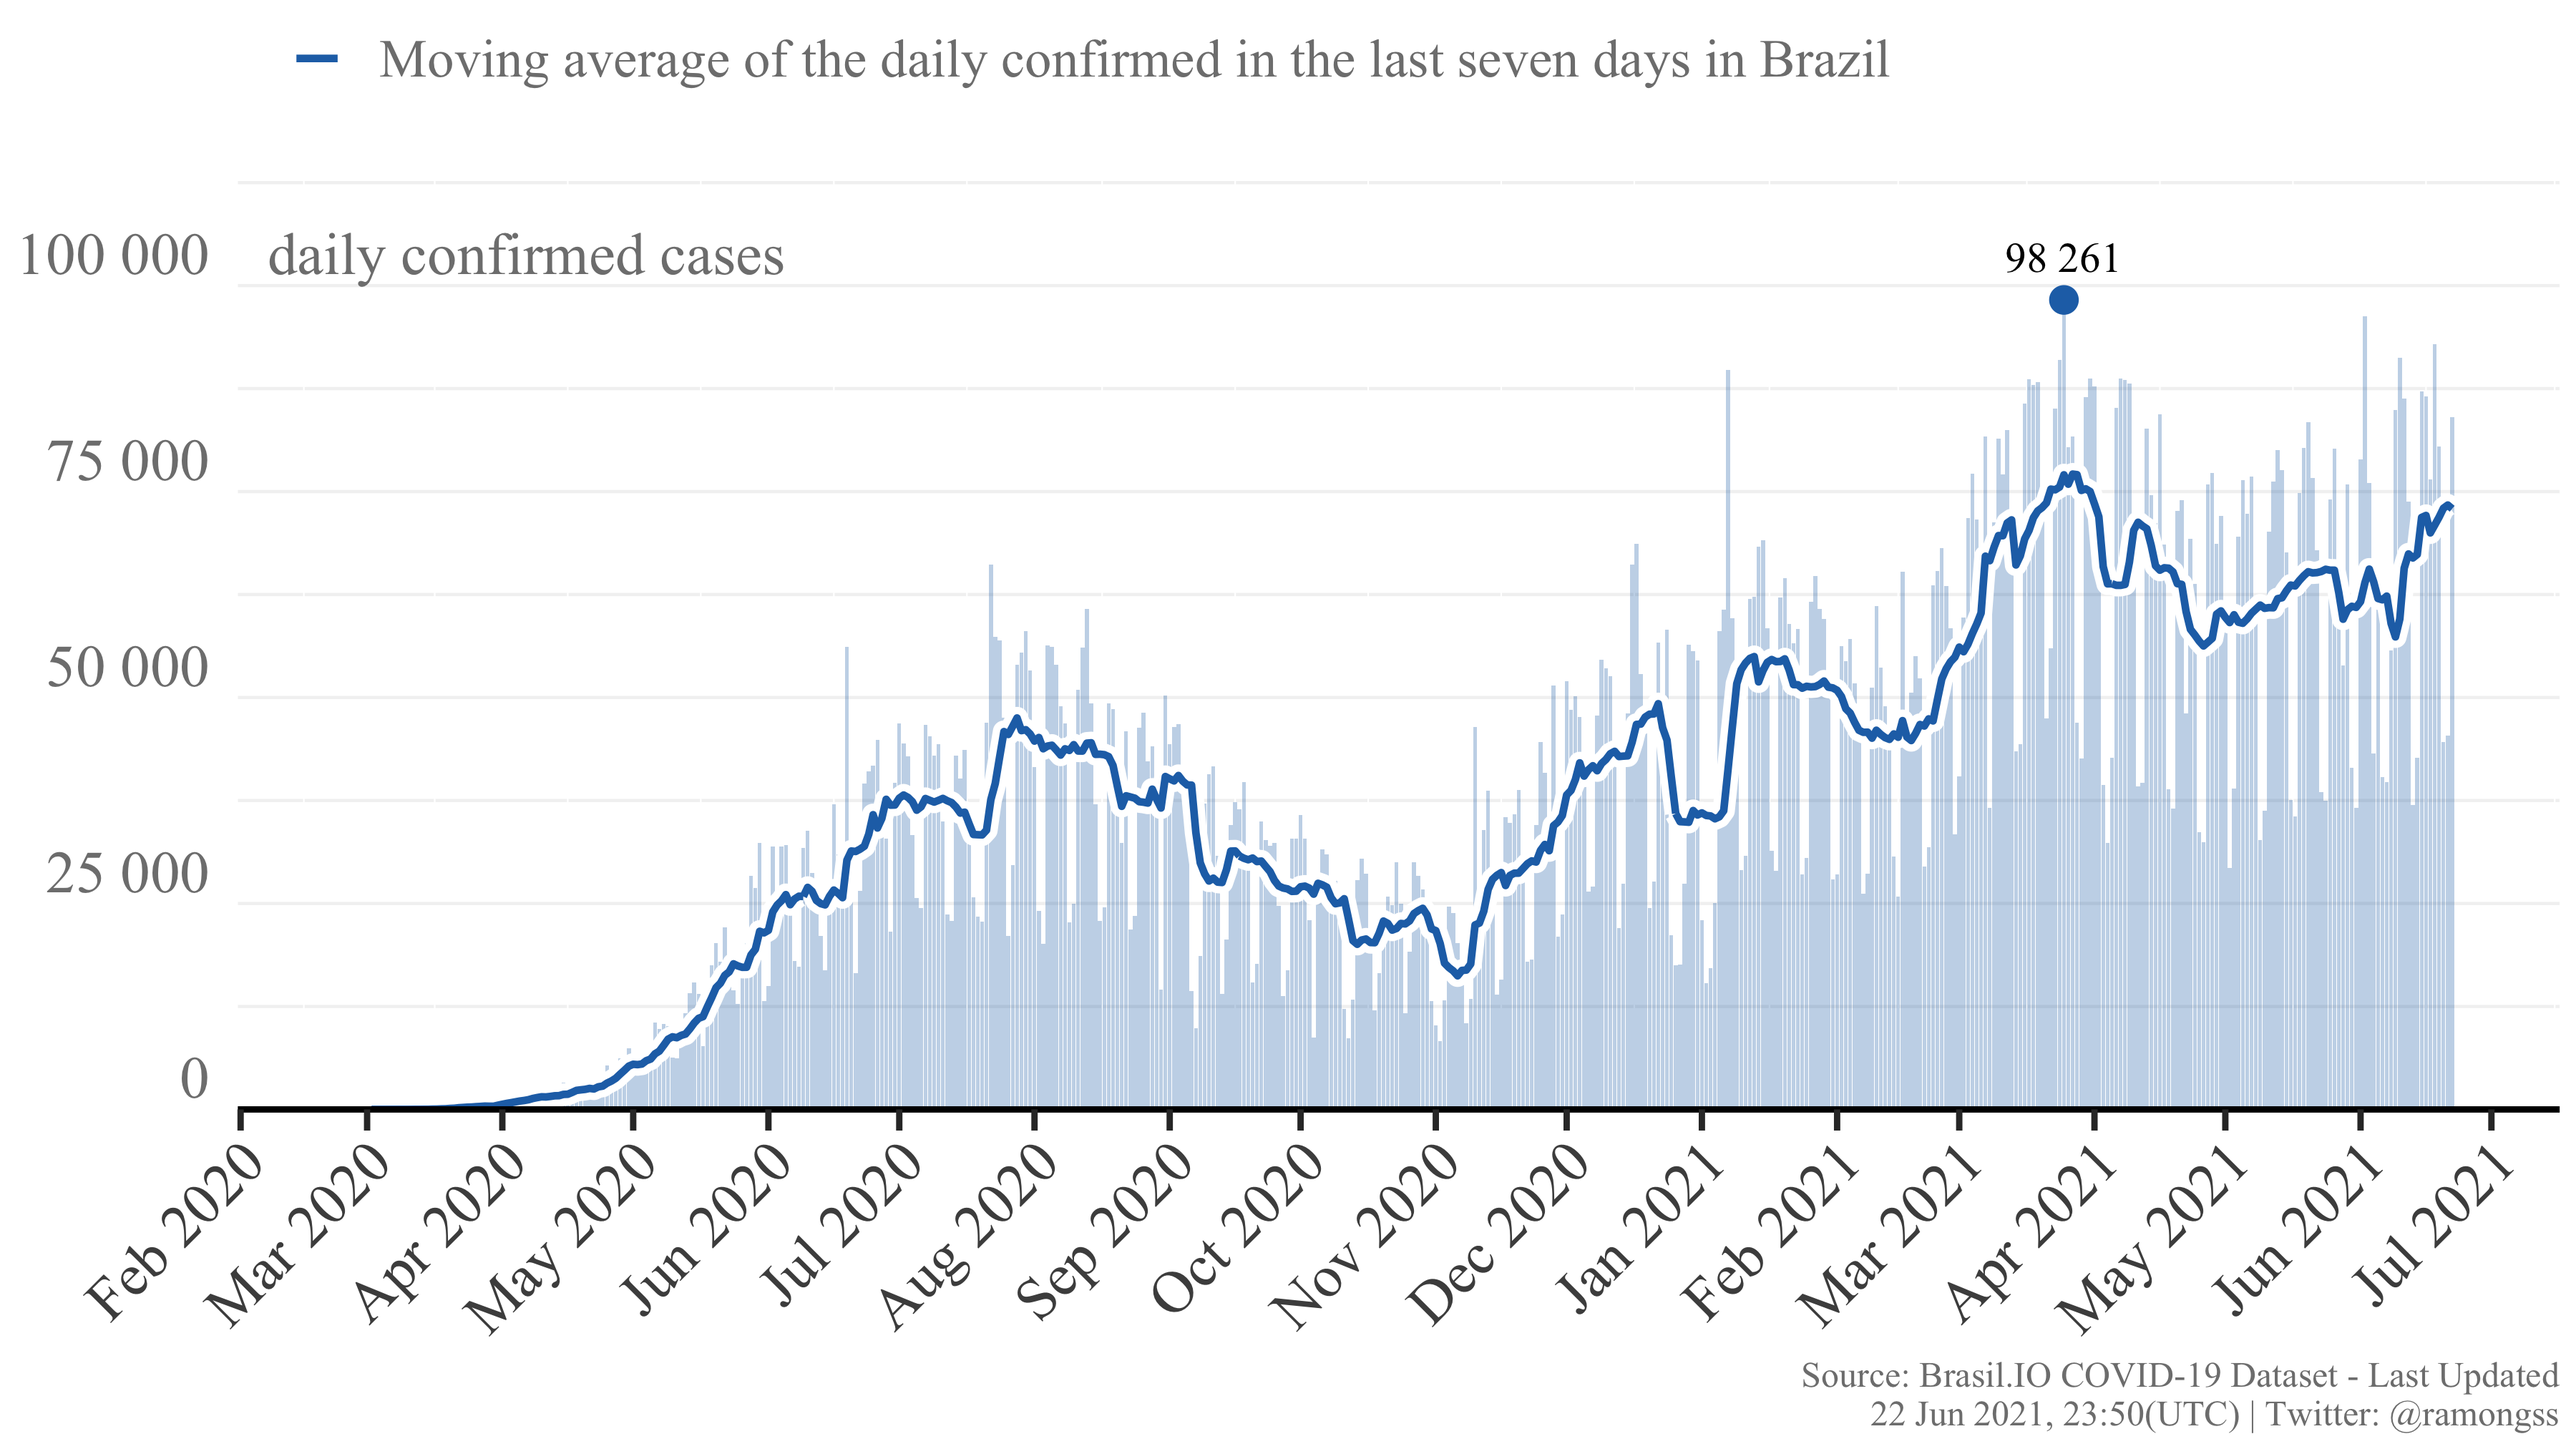
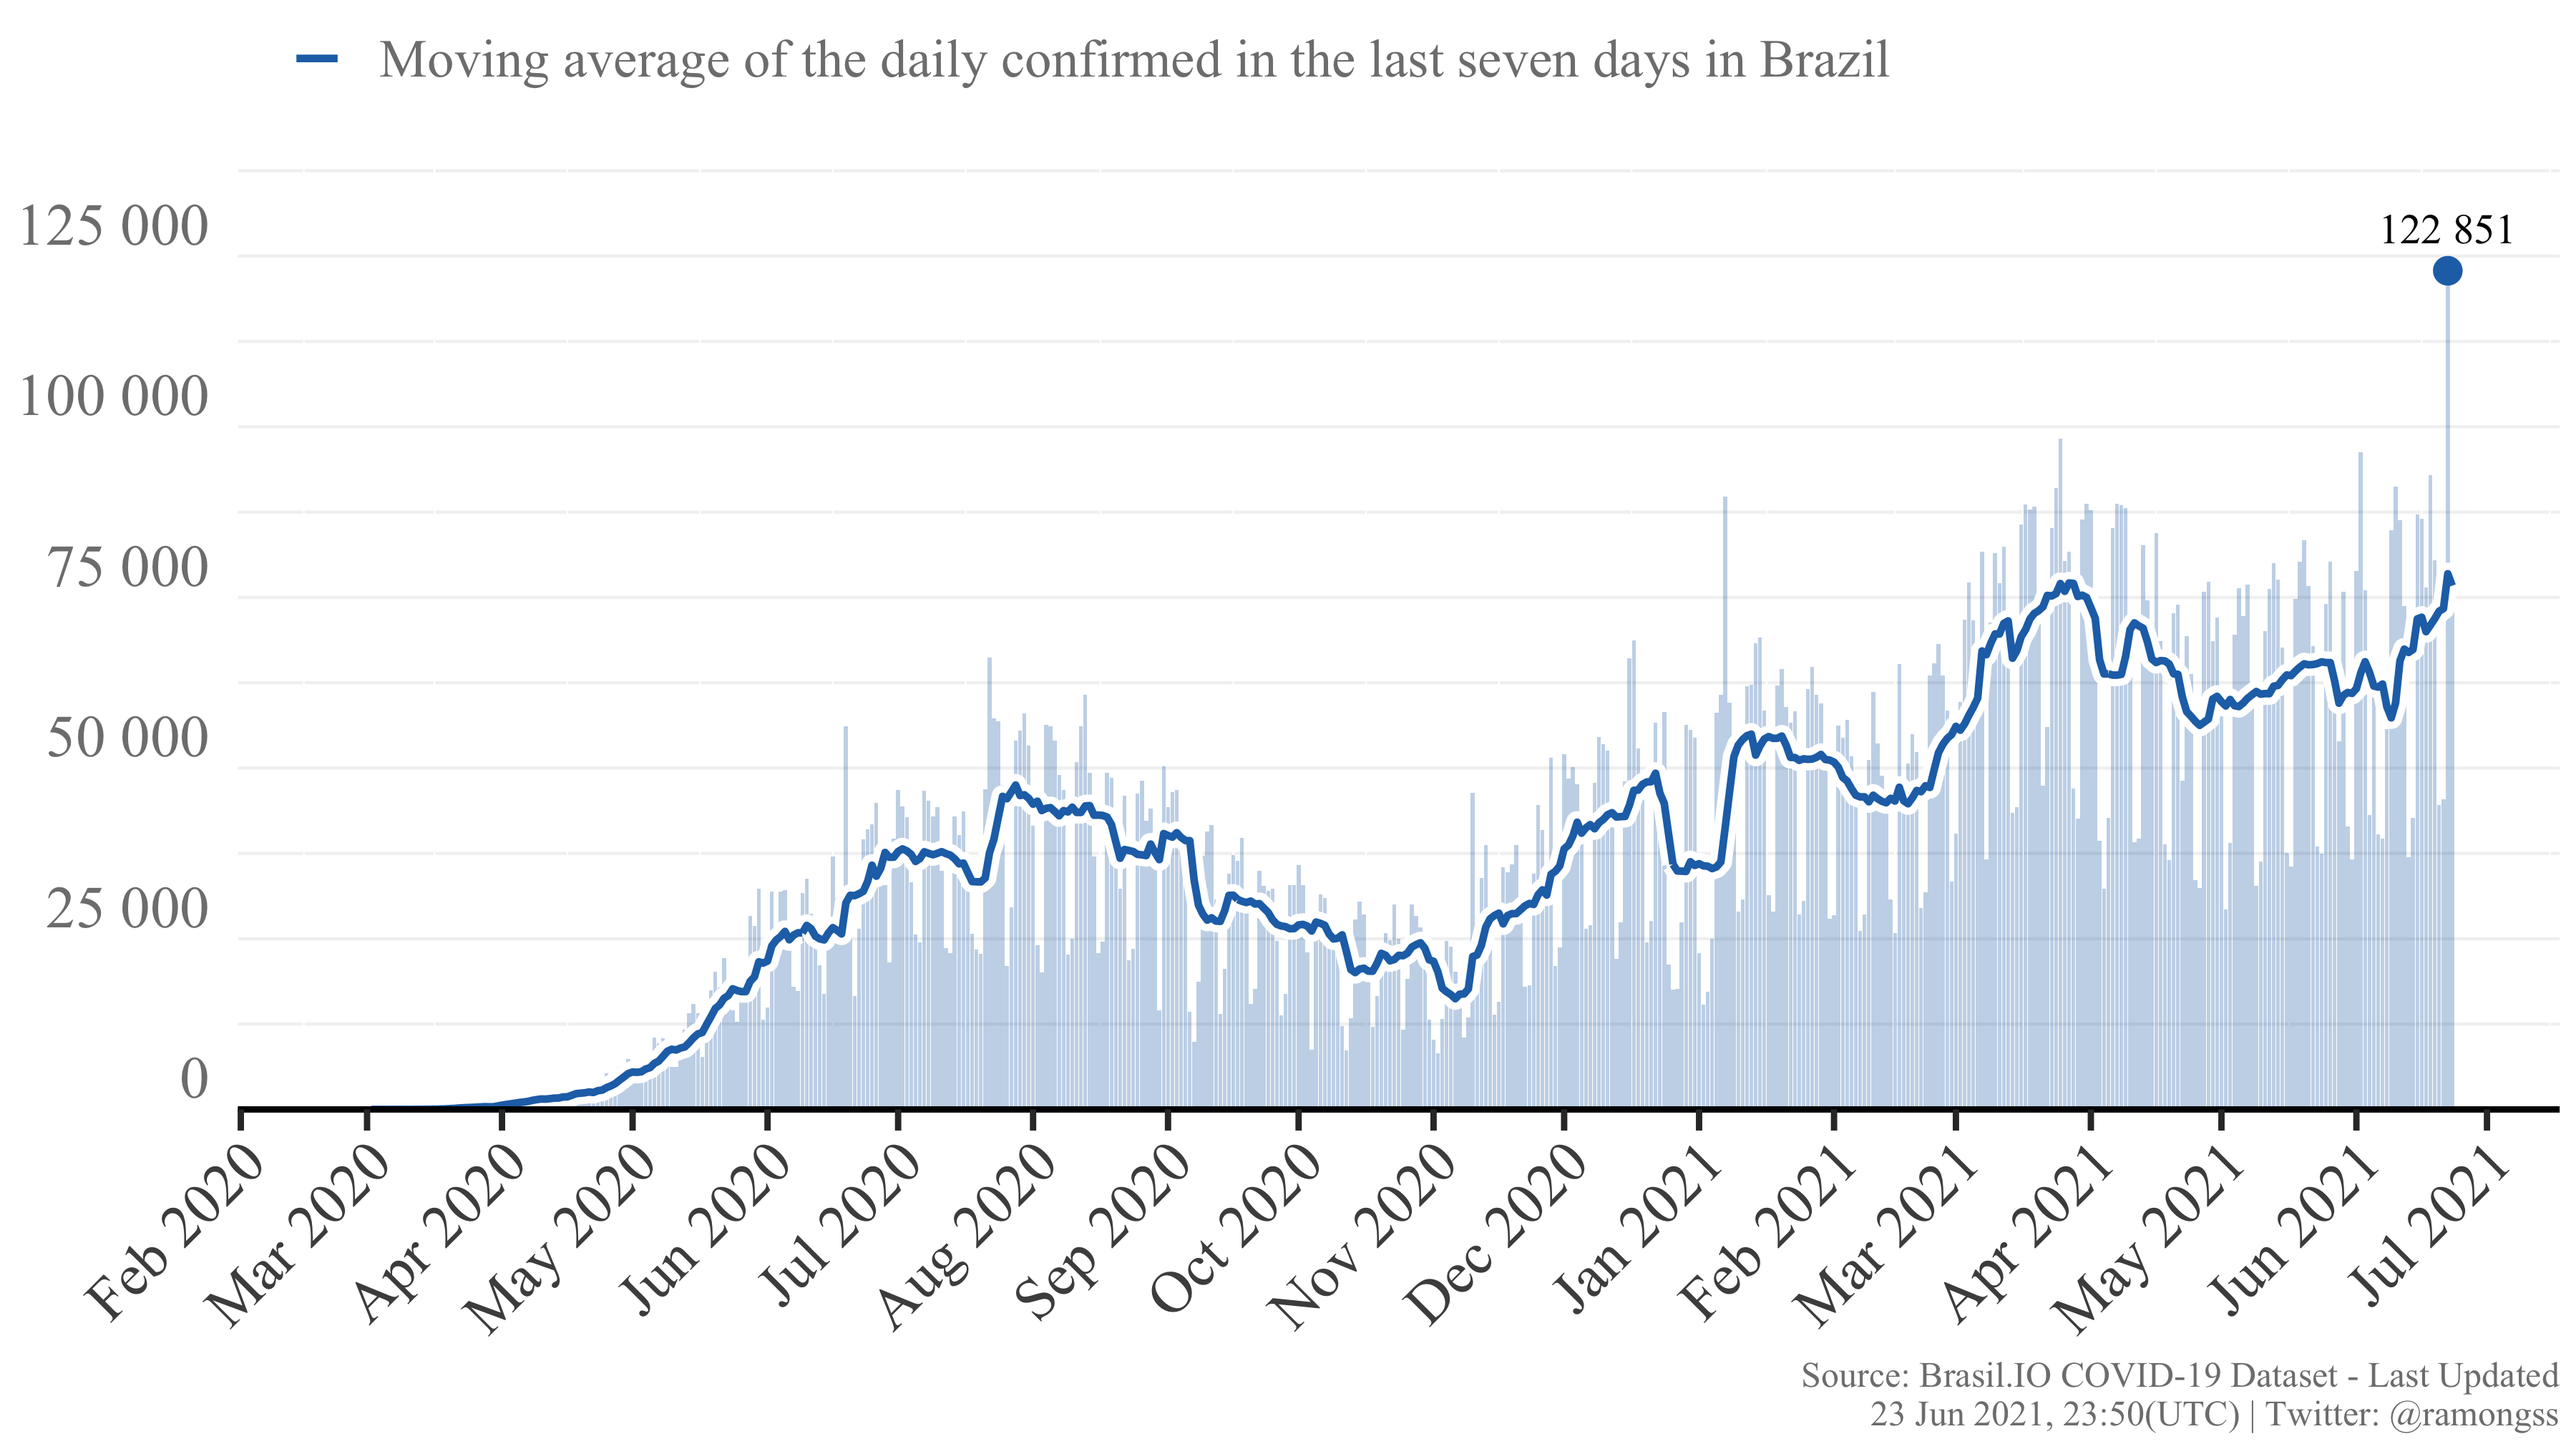
Re-build README.Rmd

diff --git a/README.md b/README.md
@@ -27,9 +27,9 @@ download_brasilio_table <- function(dataset = "covid19", table_name){
 
 ## COVID-19 Confirmed cases
 
-Currently, Brazil has a total of **18,063,163** confirmed cases at **22
-Jun, 2021**, with **83,999** new confirmed cases. The daily maximum
-incidence was **98,261** confirmed cases at **25 Mar, 2021**. Here
+Currently, Brazil has a total of **18,176,335** confirmed cases at **23
+Jun, 2021**, with **74,320** new confirmed cases. The daily maximum
+incidence was **122,851** confirmed cases at **22 Jun, 2021**. Here
 follows the Figure showing the confirmed case incidence as the bars, and
 the line as the moving average of the last 7 days.
 
@@ -37,8 +37,8 @@ the line as the moving average of the last 7 days.
 
 ## COVID-19 Deaths
 
-Currently, Brazil has a total of **505,061** deaths at **22 Jun, 2021**,
-with **1,941** new deaths. The daily maximum deaths incidence was
+Currently, Brazil has a total of **507,402** deaths at **23 Jun, 2021**,
+with **2,255** new deaths. The daily maximum deaths incidence was
 **4,148** deaths at **08 Apr, 2021**. Here follows the Figure showing
 the deaths incidence as the bars, and the line as the moving average of
 the last 7 days.
@@ -49,4 +49,4 @@ the last 7 days.
 
 This page is daily updated automatically using Github Actions.
 
-*Last update: 22 Jun 2021, 23:50 (UTC).*
+*Last update: 23 Jun 2021, 23:50 (UTC).*
